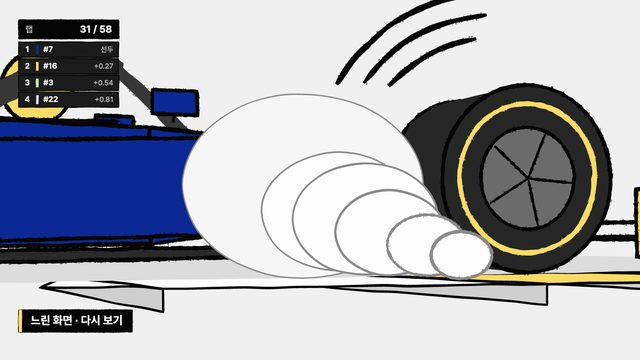
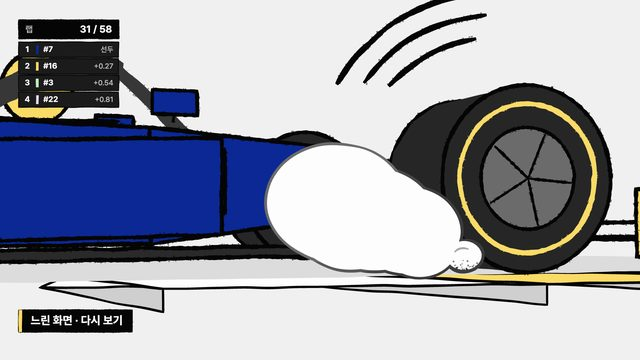
fix: 타이어 연기를 덩어리 구슬이 아니라 한 윤곽의 구름으로
성진: "타이어 연기가 꽤 부자연스럽네". 세 부품(IB.tyreSmoke, IB.smokeTrail, IB.smokeCloud)이 연기 덩어리마다 흰 타원에 회색 테두리를 따로 둘러, 겹친 곳마다 안쪽 선이 남아 구슬을 꿴 줄처럼 보였다. 위에서 본 헤어핀 자국은 덩어리 사이가 비어 더 그랬다.

marks.js에 IB.billow를 더해 셋이 모두 쓰게 했다: 모든 덩어리를 두 배 굵기로 긋고 그 위를 면으로 덮어 겹친 덩어리의 바깥 윤곽만 남기고(IB.tube가 쓰는 방식), 원본의 유일한 음영인 흑연은 구름 바닥에 닿은 젊은 덩어리의 아래쪽에만 찍고(덮인 덩어리의 점묘가 구름 위로 비치던 것을 막는다), 몇 덩어리에 안쪽 소용돌이 선을 넣고, 오래된 덩어리는 선이 옅어지며 작은 조각으로 흩어진다. tyreSmoke는 덩어리가 빨리 부풀었다 느려지고 뒤로 밀리다 멈추게 바꿨고, smokeTrail은 빠른 차가 남기는 틈을 중간 덩어리로 메운다.

Claude-Session: https://claude.ai/code/session_01SxpfC2T1LyEk5ytvqY9P1D

diff --git a/brushpen/kit/props/racing-weather.js b/brushpen/kit/props/racing-weather.js
@@ -1,4 +1,4 @@
-/* props/racing-weather.js — the race away from the dry straight: rain (the rooster tail of spray seen from any angle, the rain light glowing through it, drops on the lens, standing water), a circuit with curves for the helicopter (IB.trackPath, IB.circuit) with the cars' sun shadows, rubber marks and the smoke of a drift drawn in the same space, a raised apex kerb for a camera on the tarmac, the pit wall the team climbs to cheer, and the marshal's post with the chequered flag. Everything that lies on the track takes `map`, the view's space in metres (IB.trackSpace with the same view opts as IB.racer), so it stays glued to the cars in any shot. New, not measured: the reference has no racing. Needs ink.js, solid.js, figure.js and props/racing.js. */
+/* props/racing-weather.js — the race away from the dry straight: rain (the rooster tail of spray seen from any angle, the rain light glowing through it, drops on the lens, standing water), a circuit with curves for the helicopter (IB.trackPath, IB.circuit) with the cars' sun shadows, rubber marks and the smoke of a drift drawn in the same space, a raised apex kerb for a camera on the tarmac, the pit wall the team climbs to cheer, and the marshal's post with the chequered flag. Everything that lies on the track takes `map`, the view's space in metres (IB.trackSpace with the same view opts as IB.racer), so it stays glued to the cars in any shot. New, not measured: the reference has no racing. Needs ink.js, solid.js, marks.js, figure.js and props/racing.js. */
 (function (window) {
   const IB = window.IB, C = IB.C;
   const MIST = 'rgba(226, 233, 239, 0.45)', MIST_LINE = 'rgba(130, 150, 170, 0.35)', SPRAY = '#9fb3c6', WATER = '#d5e4f1', SHADE = '#d2d2d2', RUBBER = '#4a4a4a';
@@ -155,10 +155,10 @@
         const r = MG.rng((o.seed || 3800) + n * 13 + e * 7), [x, z] = fn(tb), rad = r0 + grow * age * (0.8 + r() * 0.4);
         const p = [x + vx * age + (r() - 0.5) * (0.6 + age), -(rad * 0.7 + rise * age), z + vz * age + (r() - 0.5) * (0.6 + age)], q = map(p);
         const side = o.split == null || !o.pass ? true : o.pass === 'far' ? q[2] > o.split : q[2] <= o.split;
-        if (ok(map, q) && side) items.push({ z: q[2], draw: () => { const R = rad * pxm(map, p), old = age > life * 0.5; IB.oval(ctx, q[0], q[1], R * 1.15, R * 0.9, { fill: old ? '#f6f6f6' : C.paper, color: old ? '#b4b4b4' : '#8a8a8a', w: Math.max(1, lw * (1 - (age / life) * 0.6) * Math.min(1.4, R / 70)), n: 14, seed: (o.seed || 3800) + n * 3 + e }); } });
+        if (ok(map, q) && side) items.push({ z: q[2], x: q[0], y: q[1], r: rad * pxm(map, p), age: age / life });
       }
     });
-    items.sort((p, q) => q.z - p.z).forEach((it) => it.draw());
+    IB.billow(ctx, items.sort((p, q) => q.z - p.z), { lw, seed: o.seed || 3800 });   // far to near, drawn as one cloud
   };
 
   /* apexKerb(ctx, map, opts) — the raised kerb at an apex, for a camera down on the tarmac: blocks `len` m (1.2) long and `h` m (0.06) high with a sloped inner face, yellow and white, from x `from` to `to` (m along the track, sliding back by `run` like IB.trackStrip's), between z0 and z1 m across (the inner edge first), drawn far to near so the block nearest the lens is in front. opts { from, to, run, z0, z1, h, len, seed, lw }. */

diff --git a/brushpen/kit/marks.js b/brushpen/kit/marks.js
@@ -40,6 +40,32 @@
     ctx.restore();
   };
 
+  /* billow(ctx, puffs, opts) — a cloud of thick smoke (a locked or spinning tyre, a burnout) drawn as ONE mass: puffs [{ x, y, r, age }] (stage px; age 0 just born .. 1 gone) are inked as a single outline round their union, so overlapping puffs never show the seams between them, with the reference's only tone, graphite, stippled into the underside of the young, dense puffs, and a curl line inside a few of them. As a puff ages its share of the outline pales and thins and it frays into a few smaller satellites before it vanishes. Pass the puffs of one cloud together, oldest first; opts: lw (outline, 2.6), fill, seed. */
+  IB.billow = (ctx, puffs, o = {}) => {
+    const lw = o.lw || 2.6, seed = o.seed || 4100, P = [];
+    puffs.forEach((p, i) => {
+      if (p.age >= 1 || p.r <= 0) return;
+      const r = MG.rng(seed + i * 17);
+      P.push({ ...p, i, rx: p.r * 1.12, ry: p.r * 0.94 });
+      if (p.age > 0.6) for (let k = 0; k < 3; k++) { const a = r() * 6.28, d = p.r * (0.9 + r() * 0.5), sr = p.r * (0.22 + r() * 0.18) * (1.4 - p.age); P.push({ x: p.x + Math.cos(a) * d, y: p.y + Math.sin(a) * d * 0.7, r: sr, rx: sr, ry: sr * 0.9, age: Math.min(0.99, p.age + 0.15), i: i * 10 + k + 1000 }); }   // fraying
+    });
+    const grey = (age) => { const v = Math.round(60 + 140 * Math.max(0, age - 0.25) / 0.75); return `rgb(${v},${v},${v})`; };
+    const shape = (p) => IB.ellipse(p.x, p.y, p.rx, p.ry, 16);
+    // 1. every puff's outline at twice the width; 2. every puff filled over it: only the outer half of the union's edge is left
+    P.forEach((p) => IB.ink(ctx, shape(p), { closed: true, fill: null, w: lw * 2 * (1 - 0.55 * Math.max(0, p.age - 0.3)), color: grey(p.age), seed: seed + p.i, grain: 0 }));
+    P.forEach((p) => IB.ink(ctx, shape(p), { closed: true, fill: o.fill || (p.age > 0.7 ? '#f8f8f8' : C.paper), w: 0, seed: seed + p.i, grain: 0 }));
+    // graphite under the dense puffs, and a curl in a few young ones
+    const inside = (q, x, y) => ((x - q.x) / q.rx) ** 2 + ((y - q.y) / q.ry) ** 2 < 1;
+    P.forEach((p) => {
+      if (p.age > 0.45 || p.r < 14) return;
+      if (P.some((q) => q !== p && inside(q, p.x, p.y + p.ry * 0.85))) return;   // only puffs on the cloud's bottom edge: tone under a covered puff would show through the mass
+      ctx.save(); ctx.beginPath(); ctx.ellipse(p.x, p.y, p.rx * 0.98, p.ry * 0.98, 0, 0, Math.PI * 2); ctx.clip();
+      IB.shade(ctx, p.x - p.rx, p.y + p.ry * 0.15, p.rx * 2, p.ry * 0.85, { from: 'bottom', alpha: 0.24 * (1 - p.age * 2), seed: seed + p.i });
+      ctx.restore();
+      if (p.i % 3 === 0) { const a0 = 3.6 + (p.i % 5) * 0.2; IB.ink(ctx, Array.from({ length: 6 }, (_, k) => { const a = a0 + k * 0.32; return [p.x + Math.cos(a) * p.rx * 0.55, p.y + Math.sin(a) * p.ry * 0.5]; }), { w: lw * 0.7, color: '#a8a8a8', seed: seed + p.i + 5 }); }
+    });
+  };
+
   /* drop(ctx, at, opts) — one falling drop of water, 51 px tall, its round end at `at` (variation/hose-wipe-endcard). */
   IB.drop = (ctx, [x, y], o = {}) => {
     const { fill = C.blue, seed = 700 } = o;

diff --git a/brushpen/kit/props/racing-corners.js b/brushpen/kit/props/racing-corners.js
@@ -1,4 +1,4 @@
-/* props/racing-corners.js — the corners of a circuit, for IB.trackStrip's bend (props/racing.js), and what a car leaves in them. Needs ink.js and solid.js.
+/* props/racing-corners.js — the corners of a circuit, for IB.trackStrip's bend (props/racing.js), and what a car leaves in them. Needs ink.js, solid.js and marks.js.
    A corner is a curvature along the track (1/m as a function of X, metres along it): IB.hairpin and IB.chicane build the two a race is decided in, and bends add up, so a lap is a sum of them. IB.smokeTrail is the smoke a sliding or locked tyre leaves where it has been, for views from above where a puff cannot simply drift back across the screen as IB.tyreSmoke's do.
    Numbers (140 px a metre): a hairpin is taken at 60-80 km/h on a radius of 10-18 m (about 2.7 g), a fast chicane at about 190 km/h with a peak curvature of 0.012-0.016 /m over 30 m each way (a jog of 7-9 m, the car cutting it to half that). */
 (function (window) {
@@ -14,12 +14,16 @@
   IB.smokeTrail = (ctx, view, poses, o = {}) => {
     const U = 140 * (view.s || 1), space = IB.space({ at: view.at || [960, 800], yaw: view.yaw || 0, pitch: view.pitch || 0, roll: view.roll || 0, f: view.f || 1500, look: view.look == null ? 0.18 : view.look });
     const s = o.s || 1, seed = o.seed || 2700, r = MG.rng(seed), wheels = o.wheels || [[-1.85, -0.8], [-1.85, 0.8]];
+    const puffs = [];
     for (let i = poses.length - 1; i >= 0; i--) {
       const { x = 0, z = 0, heading = 0 } = poses[i], c = Math.cos(heading), sn = Math.sin(heading);
-      wheels.forEach(([ax, az], j) => {
-        const [px, py] = space([(x + ax * c - az * sn) * U, 0, (z + ax * sn + az * c) * U]), rad = (15 + i * 9) * s * (0.85 + r() * 0.3);
-        IB.oval(ctx, px + (r() - 0.5) * 10 * s * i, py + (r() - 0.5) * 10 * s * i, rad * 1.15, rad, { fill: i > 3 ? '#f6f6f6' : IB.C.paper, w: Math.max(1, 2.6 - i * 0.3) * s, color: '#8a8a8a', n: 12, seed: seed + i * 7 + j * 3 });
+      const nx = poses[Math.max(0, i - 1)];   // the pose a drawing newer: a second puff halfway to it closes the gap a fast car leaves
+      wheels.forEach(([ax, az]) => {
+        const at = (q) => { const cc = Math.cos(q.heading || 0), ss = Math.sin(q.heading || 0); return space([((q.x || 0) + ax * cc - az * ss) * U, 0, ((q.z || 0) + ax * ss + az * cc) * U]); };
+        const a = at(poses[i]), b = at(nx), rad = (24 + i * 11) * s * (0.85 + r() * 0.3);
+        [[a, 0], [[(a[0] + b[0]) / 2, (a[1] + b[1]) / 2], 0.5]].forEach(([q, h]) => puffs.push({ x: q[0] + (r() - 0.5) * 10 * s * i, y: q[1] + (r() - 0.5) * 10 * s * i, r: rad * (1 - h * 0.12), age: (i - h) / (poses.length + 1) }));
       });
     }
+    IB.billow(ctx, puffs, { lw: 2.6 * s, seed });   // oldest first, as one cloud
   };
 })(window);

diff --git a/brushpen/parts/props/racing-track.html b/brushpen/parts/props/racing-track.html
@@ -12,7 +12,7 @@
 <script src="../../kit/props/racing.js"></script>
 <script src="../sample.js"></script>
 <script>
-/* 소품 견본: 레이싱 장면의 나머지 부품. 차와 같은 3D 공간에 그리는 트랙 IB.trackStrip(뒤 아래에서 따라가는 샷: 연석과 벽이 run만큼 뒤로 흘러 서 있는 차가 달린다), 출발 신호 IB.gantry(하나씩 켜지고 꺼지면 출발), 정면 헬멧 클로즈업 IB.helmet(긴장한 눈, 땀), 온보드 IB.cockpit, 타이어 연기 IB.tyreSmoke, 불꽃 IB.sparks, 물보라 IB.spray, 체커기 IB.chequer, 옆에서 본 트랙 IB.trackside, 중계 그래픽 IB.broadcast.
+/* 소품 견본: 레이싱 장면의 나머지 부품. 차와 같은 3D 공간에 그리는 트랙 IB.trackStrip(뒤 아래에서 따라가는 샷: 연석과 벽이 run만큼 뒤로 흘러 서 있는 차가 달린다), 출발 신호 IB.gantry(하나씩 켜지고 꺼지면 출발), 정면 헬멧 클로즈업 IB.helmet(긴장한 눈, 땀), 온보드 IB.cockpit, 타이어 연기 IB.tyreSmoke(겹친 덩어리를 한 윤곽의 구름으로 그리는 IB.billow), 불꽃 IB.sparks, 물보라 IB.spray, 체커기 IB.chequer, 옆에서 본 트랙 IB.trackside, 중계 그래픽 IB.broadcast.
    Motion notes: 4 s loop on twos; the chase cell launches with IB.drive (1500 px/s² for 2 s), the onboard cell runs 60 m a second (216 km/h). */
 const C = IB.C, ctxRef = { c: null };
 const CHASE = { at: [960, 860], yaw: Math.PI / 2, look: 0.07, f: 800, s: 1.2 };
@@ -23,6 +23,7 @@ const CELLS = [
   ['IB.trackStrip + IB.cockpit', (k) => { IB.trackStrip(ctxRef.c, { at: [960, 600], yaw: Math.PI / 2, look: 0.06, f: 700, s: 1, run: k * 5, from: 1, to: 140, half: 5 }); IB.cockpit(ctxRef.c, { steer: Math.sin(k / 6) * 0.3, shake: 4, d: k }); }],
   ['IB.tyreSmoke + IB.sparks', (k) => { IB.racer(ctxRef.c, { at: [960, 860], yaw: 0, s: 0.9, look: 0.08, steer: 0.1 }); IB.tyreSmoke(ctxRef.c, [960 + 1.75 * 126, 860], { k: k % 10, seed: 2100 + k }); IB.sparks(ctxRef.c, [880, 858], { d: k }); }],
   ['IB.spray (wet), rain light', (k) => { IB.spray(ctxRef.c, [960 - 1.85 * 126, 850], { d: k, len: 900 }); IB.racer(ctxRef.c, { at: [960, 860], yaw: 0, s: 0.9, look: 0.08, lit: k % 4 < 2, color: C.yellow, accent: C.navy }); }],
+  ['IB.billow: puffs as one cloud, ageing', (k) => IB.billow(ctxRef.c, Array.from({ length: 9 }, (_, i) => ({ x: 600 + i * 95, y: 640 - i * 14, r: 60 + i * 14, age: Math.min(0.98, ((8 - i) / 9 + (k % 24) / 48) % 1) })), { lw: 3.2 })],
   ['IB.chequer({ wave })', (k) => IB.chequer(ctxRef.c, [800, 420], { s: 1.4, wave: k % 2 })],
   ['IB.trackside({ run, blur })', (k) => IB.trackside(ctxRef.c, [200, 1720], 900, { run: k * 2, blur: 1 })],
 ];

diff --git a/brushpen/kit/props/racing.js b/brushpen/kit/props/racing.js
@@ -262,13 +262,14 @@
     IB.ink(ctx, [[-40, 260], [420, 70], [960, 30], [1500, 70], [1960, 260]], { w: 70, color: C.charcoal, seed: seed + 11, taper: false });
   };
 
-  /* tyreSmoke(ctx, [x, y], opts) — the white smoke off a locked or spinning tyre at its contact patch: k puffs (drawing number since it started, 0..), each growing and drifting back (dir -1: toward -x) and up; s scales it. Re-seed with the drawing. */
+  /* tyreSmoke(ctx, [x, y], opts) — the thick white smoke off a locked or spinning tyre at its contact patch [x, y]: one puff born every drawing (k: drawings since it started), each swelling fast then slowly (to about 80 px x s), drifting back (dir -1: toward -x) and easing to a stop, rising a little, and gone after `life` drawings (10); all drawn as one cloud with IB.billow (marks.js). s scales it; seed changes the cloud. */
   IB.tyreSmoke = (ctx, [x, y], o = {}) => {
-    const k = o.k || 0, s = o.s || 1, dir = o.dir || -1, r = MG.rng((o.seed || 2100) + k * 13);
-    for (let i = 0; i <= Math.min(k, 7); i++) {
-      const age = k - i, rad = (22 + age * 14) * s * (0.8 + r() * 0.4);
-      IB.oval(ctx, x + dir * (age * 34 + r() * 20) * s, y - rad * 0.6 - age * 6 * s, rad * 1.3, rad, { fill: age > 4 ? '#f6f6f6' : C.paper, w: Math.max(1, 2.6 - age * 0.3) * s, color: '#8a8a8a', n: 12, seed: (o.seed || 2100) + i * 7 + k });
+    const k = o.k || 0, s = o.s || 1, dir = o.dir || -1, life = o.life || 10, seed = o.seed || 2100, puffs = [];
+    for (let b = Math.max(0, k - life + 1); b <= k; b++) {
+      const age = k - b, r = MG.rng(seed + b * 13), rad = (16 + 64 * (1 - Math.exp(-age / 3))) * s * (0.85 + r() * 0.3);
+      puffs.push({ x: x + dir * (1 - Math.exp(-age / 4)) * 190 * s + (r() - 0.5) * 24 * s, y: y - rad * 0.6 - age * 6 * s + (r() - 0.5) * 10 * s, r: rad, age: age / life });
     }
+    IB.billow(ctx, puffs.reverse(), { lw: 2.6 * Math.min(1.4, Math.max(0.6, s)), seed });
   };
 
   /* sparks(ctx, [x, y], opts) — the yellow sparks from a car's plank scraping the tarmac: n short streaks thrown back (dir), re-rolled every drawing d. */

diff --git a/brushpen/README.md b/brushpen/README.md
@@ -28,7 +28,7 @@ ink.js     붓펜 선과 질감: 팔레트(IB.C), 무대(IB.bg), 선과 채움(I
 time.js    시계와 그림 목록: 24fps(IB.FPS), 12fps·8fps 양자화(IB.twos, IB.threes), 프레임 번호(IB.frame), 정착 곡선(IB.settle), 12fps 격자(IB.T, IB.drawn),
            그림 목록 조회(IB.held, IB.heldRow), 동작을 표에 끼워 넣기(IB.play), 사이 그림 비율(IB.inbetween), 두 장 교대(IB.alternate), 순환(IB.loop), 도착한 것의 감쇠 출렁임(IB.bob)
 marks.js   효과 표시: 터짐선(IB.burst), 쿵(IB.thud), 입김(IB.breath), 연기(IB.smoke), 물방울과 튐(IB.drop, IB.splash), 어둠과 빛줄기(IB.darkness, IB.lightBeam),
-           휩에 뜯기는 화면(IB.whipBreakup), 문지른 흑연(IB.smudge), 신발 밑 웅덩이(IB.puddle), 바퀴 밑 물결선과 먼지(IB.ripples, IB.wheelDust)
+           휩에 뜯기는 화면(IB.whipBreakup), 한 덩어리로 뭉친 짙은 연기(IB.billow), 문지른 흑연(IB.smudge), 신발 밑 웅덩이(IB.puddle), 바퀴 밑 물결선과 먼지(IB.ripples, IB.wheelDust)
 figure.js  옆모습 인물 리그(IB.figure: 손 그림 pose.hand, 한 장 늦게 따라오는 머리 pose.prev; IB.stand, IB.walk, IB.walkLen, IB.run, IB.runLen, 어깨·골반 위치 IB.joints와 각도·길이로 손발을 놓는 IB.polar·IB.posed, 아이 체형 look.headK, 경기복의 양말·장갑·민소매·반바지 길이(look.socks, gloves, topKind 'tank', shortsLen), IB.poseMix(u > 1은 지나침), IB.footLift, 비례는 IB.FIG, 선 굵기는 IB.figLine, 관절 풀이 IB.ik, 팔다리 IB.limb), 다리 달린 사물의 팔다리와 손(IB.peg, IB.hose, IB.boot, IB.mitt, IB.clasp),
            화면 밖에서 온 손과 팔(IB.pointer, IB.reachArm), 말풍선(IB.bubble), 흔들림선(IB.shake)
 camera.js  카메라: 무대를 한 번 세우고 샷 목록으로 찍는다(IB.shot: 컷, 원본의 팬과 밀기, 펀치 인, 휩, 흔들림, 기울임; IB.film: 그 시점으로 그리기). 문법은 STYLE.md의 "카메라"
